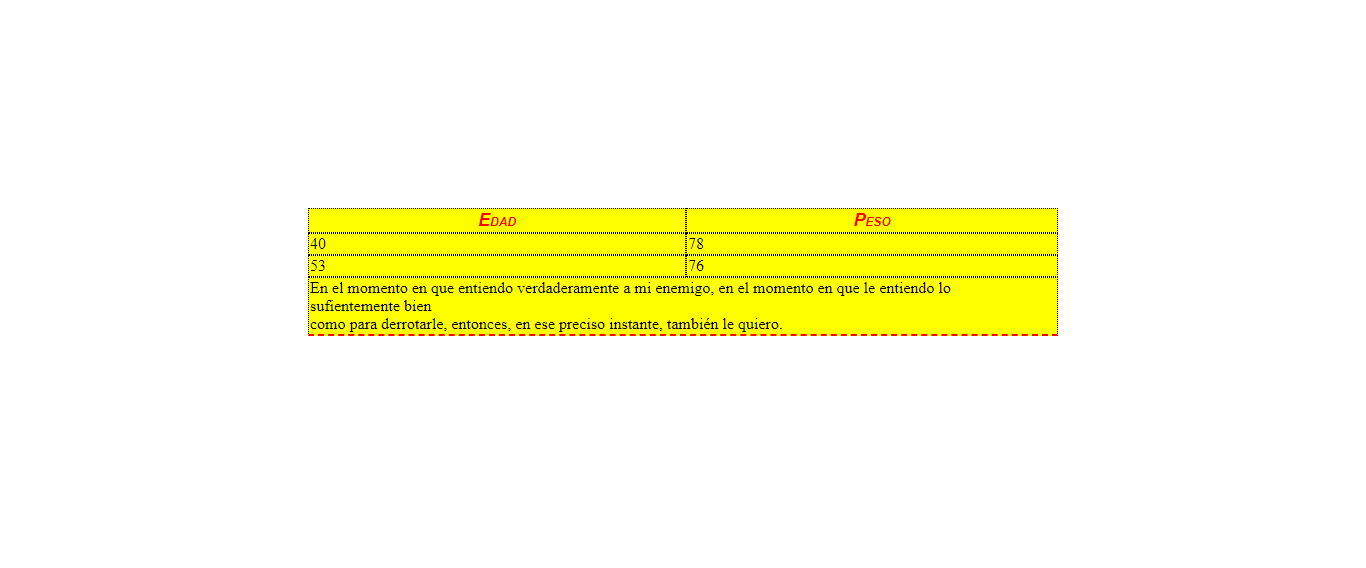
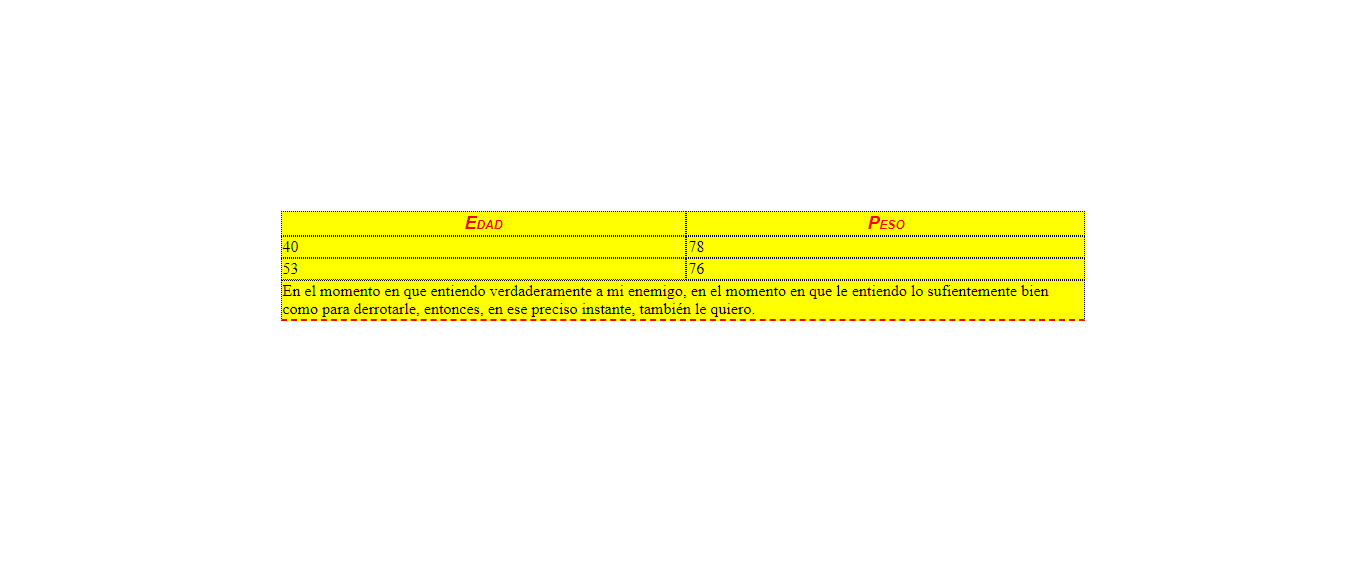
Se modifica el Punto 9 y se agrega al Readme

Changed region(s): [[0.1845, 0.3592, 0.7994, 0.5986]]

diff --git a/punto-9/styles/styles.css b/punto-9/styles/styles.css
@@ -5,9 +5,11 @@ table {
 }
 
 div {
+    margin-top: 15%;
     display: flex;
-    margin: 200px 300px;
-    justify-content: center;
+    justify-content: center; /* Centramos horizontalmente */
+    align-items: center; /* Centramos verticalmente */
+    
 }
 
 th {
